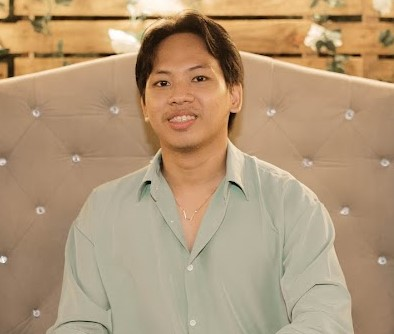
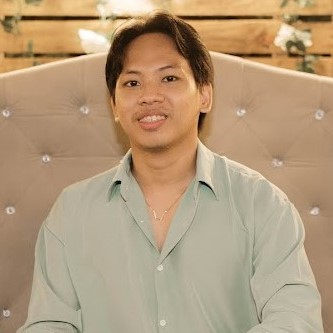
Update Home section

diff --git a/index.html b/index.html
@@ -46,12 +46,12 @@
 	</nav>
 
 	<!-- Home section start -->
-	<div class="col-xl-12 p-2 p-md-4">
-		<div id="home" class="container-fluid rounded text-light text-center p-3 p-lg-5">
-			<img src="./images/Yhaje de Leon.JPG" class="img-thumbnail m-3 mx-md-5 rounded border border-light">
-			<h1 class="font-weight-bold text-uppercase">Yhaje de Leon</h1>
+	<div class="container-fluid rounded text-light text-center p-3 p-md-4">
+		<div id="home" class="col-12 py-2 py-md-3 px-2 px-md-5">
+			<img src="./images/Yhaje de Leon.JPG" class="img-thumbnail mr-2 mb-2 m-md-4 rounded-circle border border-light">
+			<h1 class="font-weight-bold">Yhaje de Leon</h1>
 			<h3>Full-Stack Developer</h3>
-			<p class="">Yhaje de Leon (a.k.a Earl John de Leon, born February 13, 1995) is a determined and purpose-driven individual. He has been in the BPO industry for 9 years and has worked with 3 companies. His recent experience involves data security and role-based access control. He is a first-time software and web developer, but is a fast learner and can easily adapt to change.</p>
+			<p class="mx-2 mx-md-5">Yhaje de Leon (a.k.a Earl John de Leon, born February 13, 1995) is a determined and purpose-driven individual. He has been in the BPO industry for 9 years and has worked with 3 companies. His recent experience involves data security and role-based access control. He is a first-time software and web developer, but is a fast learner and can easily adapt to change.</p>
 		</div>
 	</div>
 	<!-- Home section end -->
@@ -115,11 +115,11 @@
 	<!-- Tools Section End -->
 
 	<!-- Contact Me section start -->
-	<div class="col-xl-12 p-2 p-md-4">
+	<div class="col-md-12 p-3 p-md-4">
 		<div id="contact" class="container-fluid rounded text-light text-center p-4">
 			<h3 class="font-weight-bold text-uppercase">Contact</h3>
 
-			<div class="icons">
+			<div class="icons pr-3 pb-md-4">
 				<a href="https://www.facebook.com/qweertyhaje" class="fa fa-facebook"></a>
         <a href="https://mail.google.com/mail/u/0/?fs=1&to=yhajedeleon@gmail.com&tf=cm" class="fa fa-google"></a>
         <a href="https://www.linkedin.com/in/earl-john-de-leon-818315156" class="fa fa-linkedin"></a>
